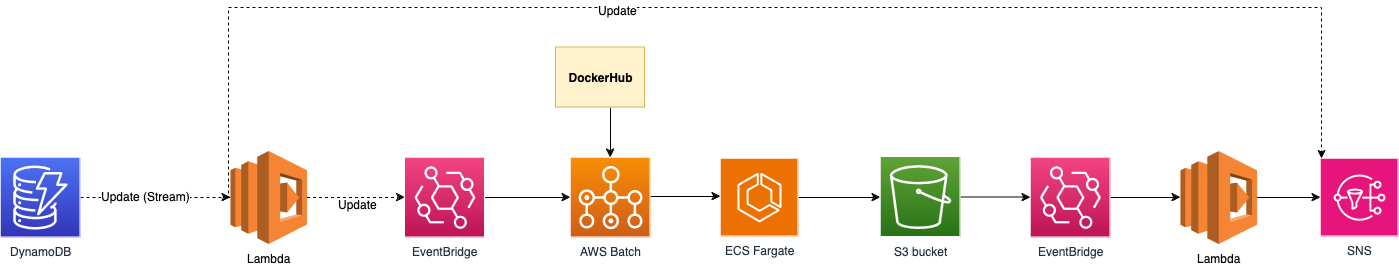
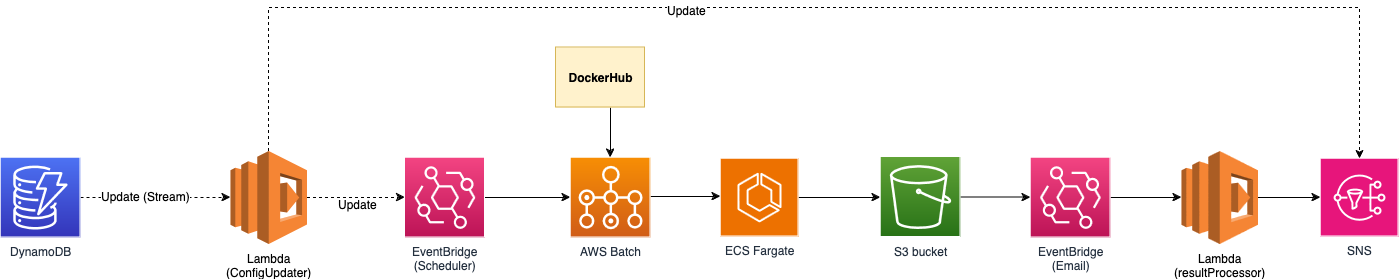
added readme

diff --git a/usecases/scheduler/README.md b/usecases/scheduler/README.md
@@ -1,32 +1,36 @@
 # Screener Scheduler Guide
-Today, you can setup scheduler to run screener automatically at fix schedule. Follow the setup guide below to deloy. 
+This use case is meant to help you run Screener automatically at your desired frequency, so that you can have a good view of what has changed since the last run without the need to constantly re-deploy. Below is the setup guide for you to deploy in your AWS environment. 
 
 ## Architecture Components
 ### Components
 
 From left to right
-1. DynamoDB: 
-1. Lambda - ConfigUpdater: This lambda is only triggered through DynamoDB stream. It updates the EventBridge scheduler setting, parameters, and email recipients
-1. EventBridge (behind-the-scene): It is the main component to perform scheduling event. Based on the scheduler setting, EventBridge triggers AWS Batch to run Screener
-1. AWS Batch: It provides compute environments to runs Screener and shutdown as soon as results are generated. It first look at Spot instance availability ...
-1. ...
+1. DynamoDB: This stores your various configurations for different schedulers. Each configuration consists of environment variables used to run Screener, and the email recipient for the summary email
+2. Lambda - ConfigUpdater: This lambda will be triggered using DynamoDB Streams. It updates the EventBridge Scheduler setting, parameters, and SNS topic recipients
+3. EventBridge - Scheduler: This is the main component for performing the scheduled event. Based on the Scheduler setting, EventBridge triggers AWS Batch to run Screener
+4. AWS Batch: It consists of job definition, job queue and jobs that will create use ECS Fargate to run Screener, and will be shut down after each complete run. For container compute allocation, it will first utilise Spot instances. If not available, then it will fall back on On Demand instances.
+5. ECS Fargate: This will be created by AWS Batch to run Screener commands and upload the results to S3.
+6. S3 bucket: Stores the output.zip summary and excel findings for each account
+7. EventBridge - Email: Based on S3 event of uploaded *.zip, it will trigger Lambda to process the findings.
+8. Lambda - resultProcessor: Identifies high findings and compare with the previous run to identify changes, new findings or what has been resolved.
+9. SNS: Sends the summary of findings to the email recipients. 
 ![architecture diagram](./screener-architecture.png)
 ### Costs
+<TODO>
 
-## Deployment Guide (Recommend to run in Cloudshell)
+## Deployment Guide (Recommended to run in Cloudshell)
 ### Prerequisite - Permission 
-1. AWS User ID to log into AWS Console
-1. [TODO] Permission required
-1. 
+1. AWS User Console access
+2. [TODO] Permissions required - AWSReadOnlyAccess, IAM??
 
-### Prereqsuite - running at your own environment 
-Note: All the following already preinstall for you in Cloudshell environment
+### Prereqsuite - running in your own environment 
+Note: All the following is already preinstalled for you in  your Cloudshell environment
 1. Python3.12 & pip3
 1. awscli & awscdk
 1. Docker
 
 ### Cloudshell
-The deployment requires 1/ CDK, 2/ git, 3/ docker and 4/ aws-cli. Using AWS Cloudshell is the cleanest way to deploy.
+The deployment requires 1/ CDK, 2/ git, 3/ docker and 4/ aws-cli. Using AWS Cloudshell is the cleanest and easiest way to deploy.
 1. Login to AWS Console
 1. Access Cloudshell
 1. Run the following commands
@@ -40,12 +44,31 @@ git clone https://github.com/aws-samples/service-screener-v2.git
 cd service-screener-v2
 pip install -r requirements.txt
 ```
+```
+## Set up your environment variables to deploy the infrastructure
+export NAME="<insert config name>" 
+export EMAIL_LIST="<insert email>"
+export SERVICES="<insert services>" 
+export REGIONS="<insert regions>" 
+export FREQUENCY="<insert cron expression>" 
+export CROSSACCOUNTS="<1 or empty>"
+export BUCKET_NAME="<insert name>" 
 
+### Example
+export NAME="scheduler-deploy" 
+export EMAIL_LIST="keatkw@amazon.com"
+export SERVICES="ec2,rds" 
+export REGIONS="ap-southeast-5" 
+export FREQUENCY="cron(*, *, 1, *, ?, *)" 
+export CROSSACCOUNTS="1"
+export BUCKET_NAME="screener-scheduler" 
+```
 ```
 ## Deploy the architecture
 export AWS_DEFAULT_REGION=<YOUR_REGION>
 cd usecases/scheduler/src/infra
 pip install -r requirements.txt
+cdk synth 
 cdk bootstrap
 cdk deploy
 ```

diff --git a/usecases/scheduler/docker/README.md b/usecases/scheduler/docker/README.md
@@ -1,6 +1,6 @@
 This Docker image is currently hosted on yingtingaws/screener-scheduler repository. If you would like to update/ modify it, you can deploy it locally.
 
-## Pre-requisites
+## Prerequisites
 Install [Docker Desktop](https://www.docker.com/products/docker-desktop/) to set up Docker in your environment.
 
 ## Deployment Guide 
